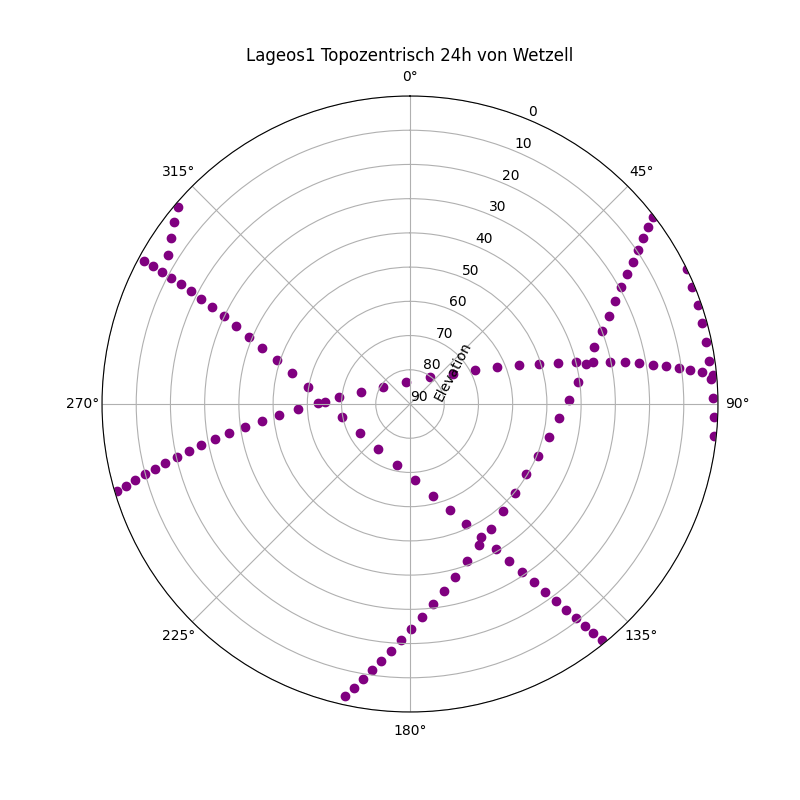
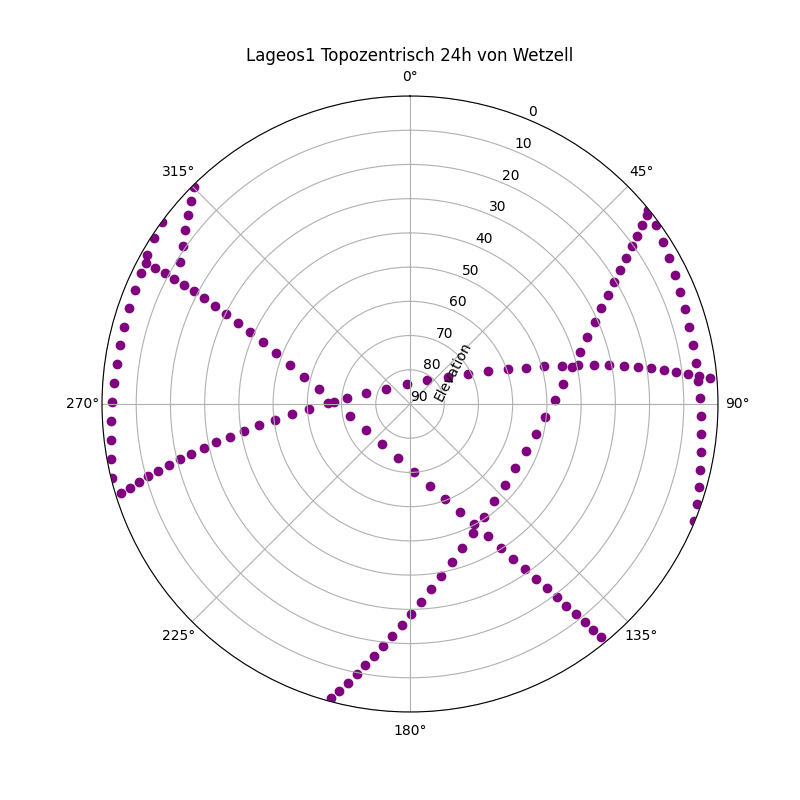
units fixed of height of wettzell

diff --git a/tasks.py b/tasks.py
@@ -95,7 +95,7 @@ def intertialToTopo(coordinates, satellite):
 
         n.append(c2[0,0])
         e.append(c2[1,0])
-        u.append(c2[2,0] - constants.WETTZELL["h"]) #up is h of Wettzell smaller (Wettzell is "closer" to satellite)
+        u.append(c2[2,0] - constants.WETTZELL["h"] / 1000) #up is h (meters) / 1000 of Wettzell smaller (Wettzell is "closer" to satellite)
 
         if satellite == "Lageos1": t += 120
         elif satellite == "TEST": t += 2400
